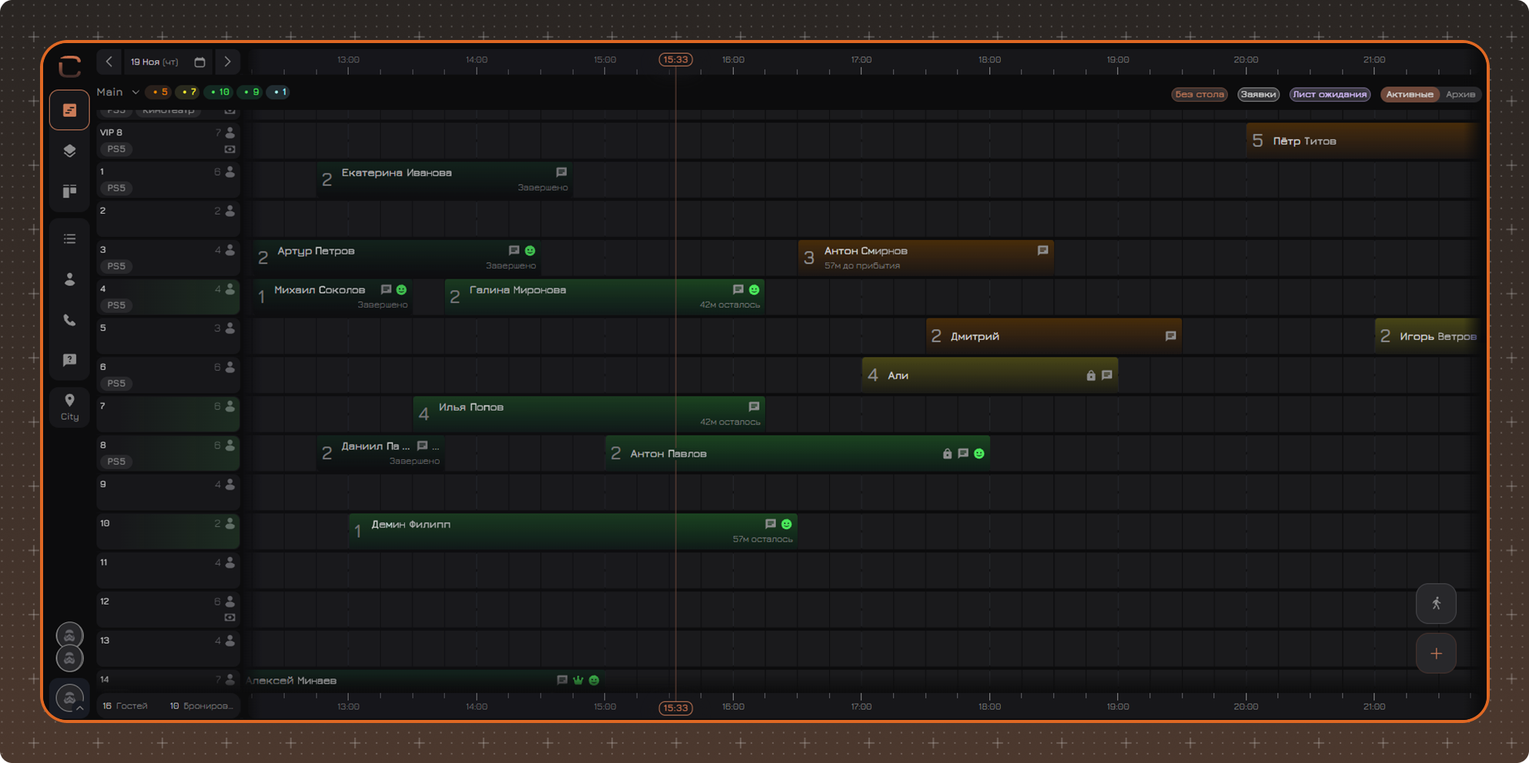
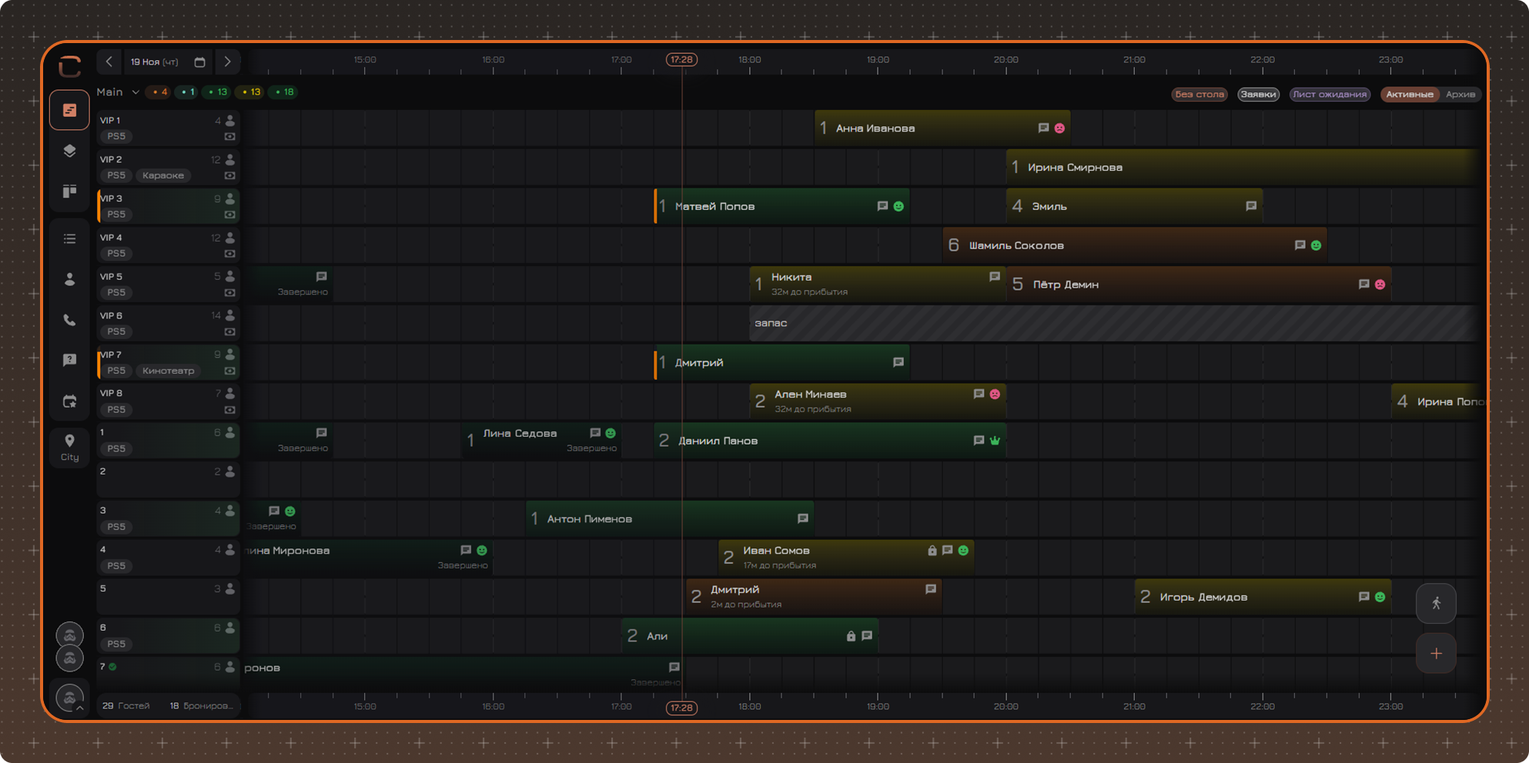
Reservations: «Таймлайн бронирований» - раздел Канбан вместо таблицы, новые скрины, правка текста RU и EN

diff --git a/content/ru/reservations/reservations/timeline-view.md b/content/ru/reservations/reservations/timeline-view.md
@@ -1,9 +1,9 @@
 ---
 title: Таймлайн бронирований
 description: Навигация и функционал Таймлайна
-summary: "Брони на шкале времени, список столов и таблица"
+summary: "Брони на шкале времени, список столов и Канбан"
 order: 1
-updatedAt: 2026-09-24
+updatedAt: 2026-11-19
 ---
 
 **Таймлайн бронирований** - основной рабочий экран модуля бронирования. Все брони выбранного дня разложены по столам на временной шкале, а цвет каждой брони показывает ее статус. Здесь удобно оценивать загрузку зала, искать свободный стол на нужное время и создавать брони прямо на шкале.
@@ -15,65 +15,64 @@ updatedAt: 2026-09-24
 В модуле доступно три режима отображения бронирований. Каждый из них подходит для разных задач: работы с бронями, анализа загрузки и управления посадкой гостей.
 
 1. **Таймлайн**
-2. **План этажа** 
-3. **Таблица**
+2. **План этажа**
+3. **Канбан**
 
-![Вкладки Бронирования](/ru/images/reserve/timeline-view/timeline-view-1.jpg)
+![Режимы модуля бронирования](/ru/images/reserve/timeline-view/timeline-view-1.png)
 
 [[delimiter rows=1]]
 
 ## Таймлайн
 
-**Таймлайн** — это область с временной шкалой, на которой отображаются все бронирования.
+**Таймлайн** - временная шкала, на которой брони отображаются по столам.
 
 ![Таймлайн](/ru/images/reserve/timeline-view/timeline-view-2.jpg)
 
 [[delimiter rows=1]]
 
-**Основные элементы:**
+**Элементы страницы:**
 
 1. Список этажей и столов. Этажи можно сворачивать и разворачивать.
 2. Временная шкала с бронями.
 3. Кнопка создания брони.
 4. Статистика завершенных бронирований за день.
 5. Информация по бронированиям на выбранном этаже. Цвета соответствуют **[статусной модели](https://wiki.cosmosresto.ru/ru/reservations/reservations/reserv-status/)**.
-6. Кнопки **Без стола**, **Заявки** и **Лист ожидания** — открывают соответствующие списки в сайдбаре справа.
-7. Кнопка **Архив** — открывает список отмененных бронирований.
+6. Кнопки **Без стола**, **Заявки** и **Лист ожидания** - открывают соответствующие списки в сайдбаре справа.
+7. Кнопка **Архив** - открывает список отмененных бронирований.
 
-**Без стола, Заявки и Лист ожидания**
+### Без стола, Заявки и Лист ожидания
 
 Счетчик на каждой кнопке показывает количество записей в соответствующем списке.
 
-- **Без стола** — брони, которым еще не назначен стол.
-- **Заявки** — заявки на бронирование, поступившие через виджет сайта. Нажмите на заявку, чтобы посмотреть подробную информацию. Заявку можно отклонить или подтвердить и создать на ее основе бронь. При создании брони можно выбрать стол, оставить бронь без стола или указать статус **Лист ожидания**. Подробнее о работе с заявками читайте в статье **[Заявки на бронирование](https://wiki.cosmosresto.ru/ru/reservations/reservations/requests/)**.
-- **Лист ожидания** — записи, для которых бронь пока не может быть подтверждена, например если нет подходящего стола или недоступно нужное время. Запись не резервирует стол и не блокирует время. Когда появится возможность подтвердить бронь, запись можно превратить в обычную бронь. Подробнее о работе с листом ожидания читайте в статье **[Лист ожидания](https://wiki.cosmosresto.ru/ru/reservations/reservations/waitlist/)**.
-
+- **Без стола** - брони, которым еще не назначен стол.
+- **Заявки** - заявки на бронирование, поступившие через виджет сайта. Нажмите на заявку, чтобы посмотреть подробную информацию. Заявку можно отклонить или подтвердить и создать на ее основе бронь. При создании брони можно выбрать стол, оставить бронь без стола или указать статус **Лист ожидания**. Подробнее о работе с заявками - в статье **[Заявки на бронирование](https://wiki.cosmosresto.ru/ru/reservations/reservations/requests/)**.
+- **Лист ожидания** - записи, для которых бронь пока не может быть подтверждена, например если нет подходящего стола или недоступно нужное время. Запись не резервирует стол и не блокирует время. Когда появится возможность подтвердить бронь, запись можно превратить в обычную бронь. Подробнее о работе с листом ожидания - в статье **[Лист ожидания](https://wiki.cosmosresto.ru/ru/reservations/reservations/waitlist/)**.
 
 ### Создание бронирования на таймлайне
 
-**Создать бронирование можно прямо на таймлайне несколькими способами:**
+Создать бронь прямо на таймлайне можно несколькими способами:
 
-- Одиночное нажатие открывает сайдбар создания бронирования.
-- Нажатие и протяжка вправо или влево позволяют сразу задать продолжительность бронирования.
-- Протяжка вверх или вниз позволяет выбрать несколько столов одновременно (подробнее про **[мультибронирование](https://wiki.cosmosresto.ru/ru/reservations/reservations/mass-reservations/)**).
+- одиночное нажатие открывает сайдбар создания брони.
+- нажатие и протяжка вправо или влево позволяют сразу задать продолжительность брони.
+- протяжка вверх или вниз позволяет выбрать несколько столов одновременно, подробнее - в статье **[Мультибронирование](https://wiki.cosmosresto.ru/ru/reservations/reservations/mass-reservations/)**.
 
-![Таймлайн](/ru/images/reserve/timeline-view/timeline-view-3.gif)
+![Создание брони на таймлайне](/ru/images/reserve/timeline-view/timeline-view-3.gif)
 
 [[delimiter rows=1]]
 
 [[info type=custom color=#E06823]]
-Создать бронирование также можно через `Кнопку создания бронирования` в правом нижнем углу. Подробнее о способах создания бронирования — в статье **[Создание брони](https://wiki.cosmosresto.ru/ru/reservations/reservations/reserv-create/)**.
+Создать бронь также можно кнопкой **+** в правом нижнем углу. Подробнее о способах создания брони - в статье **[Создание брони](https://wiki.cosmosresto.ru/ru/reservations/reservations/reserv-create/)**.
 [[/info]]
 
 ### Список столов
 
-**При выборе стола отображается информация о нем:**
+При выборе стола отображается информация о нем:
 
-1. Схема и максимальная вместимость.
-2. Теги.
-3. Депозиты и исключения.
+- схема и максимальная вместимость.
+- теги.
+- депозиты и исключения.
 
-![Таймлайн](/ru/images/reserve/timeline-view/timeline-view-4.jpg)
+![Информация о столе](/ru/images/reserve/timeline-view/timeline-view-4.jpg)
 
 [[delimiter rows=1]]
 
@@ -81,53 +80,48 @@ updatedAt: 2026-09-24
 В этом же окне можно добавить **блокировку** на стол на выбранный период. Блокировка отображается на таймлайне и плане этажа, но не запрещает создать на этом столе бронирование.
 [[/info]]
 
-**Для блокировки стола необходимо указать:** 
+Для блокировки стола укажите:
 
-1. Один или несколько столов.
-2. Время начала и продолжительность блокировки.
-3. Причину блокировки.
+- один или несколько столов.
+- время начала и продолжительность блокировки.
+- причину блокировки.
 
-![Таймлайн](/ru/images/reserve/timeline-view/timeline-view-5.jpg)
+![Блокировка стола](/ru/images/reserve/timeline-view/timeline-view-5.jpg)
 
 [[delimiter rows=1]]
-
 
 ## План этажа
 
-**План этажа** — это наглядное представление столов заведения, с помощью которого можно оценивать загрузку зала и управлять бронированиями в привязке к конкретным столам.
+**План этажа** - наглядное представление столов заведения, с помощью которого можно оценивать загрузку зала и управлять бронированиями в привязке к конкретным столам.
 
-![Таймлайн](/ru/images/reserve/timeline-view/timeline-view-7.png)
+![План этажа](/ru/images/reserve/timeline-view/timeline-view-7.png)
 
 [[delimiter rows=1]]
 
 [[info type=custom color=#E06823]]
-Про план этажа подробнее в статье **[План этажа](https://wiki.cosmosresto.ru/ru/reservations/reservations/floorplan/)**.
+Подробнее - в статье **[План этажа](https://wiki.cosmosresto.ru/ru/reservations/reservations/floorplan/)**.
 [[/info]]
 
+## Канбан
 
-## Табличное отображение бронирований
+**Канбан** - режим, в котором брони выбранного дня разложены по колонкам статусов. Статус брони меняется перетаскиванием карточки, без открытия сайдбара, а новые заявки можно обработать прямо в колонке **Заявки**.
 
-В этом режиме бронирования отображаются в виде таблицы. Записи можно сортировать и фильтровать. Также в разделе отображается сводка по бронированиям с учетом примененных фильтров.
-
-![Таймлайн](/ru/images/reserve/timeline-view/timeline-view-6.jpg)
+![Канбан](/ru/images/reserve/kanban/kanban-board.png)
 
 [[delimiter rows=1]]
 
-**Элементы страницы:**
-1. Кнопка обновления данных таблицы.
-2. Настройка отображаемых колонок.
-3. Сводка бронирований на основании выбранных фильтров.
-
 [[info type=custom color=#E06823]]
-Данные в таблице не обновляются автоматически. Если данные изменились, кнопка обновления уведомит об этом. Для загрузки актуальной информации нажмите `Обновить`.
+Подробнее - в статье **[Канбан](https://wiki.cosmosresto.ru/ru/reservations/reservations/kanban/)**.
 [[/info]]
 
 [[delimiter rows=3]]
 
 **Читайте дальше:**
 
-— **[План этажа](https://wiki.cosmosresto.ru/ru/reservations/reservations/floorplan/)**
-
-— **[Создание брони](https://wiki.cosmosresto.ru/ru/reservations/reservations/reserv-create/)**
+- **[План этажа](https://wiki.cosmosresto.ru/ru/reservations/reservations/floorplan/)**
+- **[Канбан](https://wiki.cosmosresto.ru/ru/reservations/reservations/kanban/)**
+- **[Создание брони](https://wiki.cosmosresto.ru/ru/reservations/reservations/reserv-create/)**
 
 [[delimiter rows=3]]
+
+---

diff --git a/content/en/reservations/reservations/timeline-view.md b/content/en/reservations/reservations/timeline-view.md
@@ -1,9 +1,9 @@
 ---
 title: Reservation Timeline
 description: Navigation and functionality of the Timeline
-summary: "Reservations on a time scale, table list, and table view"
+summary: "Reservations on a time scale, table list and Kanban"
 order: 1
-updatedAt: 2026-09-24
+updatedAt: 2026-11-19
 ---
 
 **Reservation Timeline** is the main working screen of the reservations module. All reservations for the selected day are laid out by table on a time scale, and the color of each reservation shows its status. This is where it is convenient to check how busy the venue is, find a free table for the right time and create reservations right on the scale.
@@ -15,61 +15,60 @@ updatedAt: 2026-09-24
 The module has three display modes for reservations. Each one is suitable for different tasks: working with reservations, analyzing occupancy and managing guest seating.
 
 1. **Timeline**
-2. **Floor Plan** 
-3. **Table**
+2. **Floor Plan**
+3. **Kanban**
 
-<!-- ![Reservations Tabs](/ru/images/reserve/timeline-view/timeline-view-1.jpg) -->
+![Reservation module modes](/en/images/reserve/timeline-view/timeline-view-1-en.png)
+
+[[delimiter rows=1]]
 
 ## Timeline
 
-**Timeline** is an area with a time scale on which all reservations are displayed.
+**Timeline** is a time scale on which reservations are displayed by table.
 
 ![Timeline](/en/images/reserve/timeline-view/timeline-view-2-en.jpg)
 
 [[delimiter rows=1]]
 
-**Main elements:**
+**Page elements:**
 
 1. List of floors and tables. Floors can be collapsed and expanded.
 2. Time scale with reservations.
 3. Button to create a reservation.
 4. Statistics of completed reservations for the day.
 5. Information on reservations on the selected floor. Colors correspond to the **[status model](https://wiki.cosmosresto.ru/en/reservations/reservations/reserv-status/)**.
-6. **No Table**, **Requests** and **Waitlist** buttons — open the corresponding lists in the sidebar on the right.
-7. **Archive** button — opens the list of canceled reservations.
+6. **No Table**, **Requests** and **Waitlist** buttons - open the corresponding lists in the sidebar on the right.
+7. **Archive** button - opens the list of canceled reservations.
 
-**No Table, Requests and Waitlist**
+### No Table, Requests and Waitlist
 
 The counter on each button shows the number of records in the corresponding list.
 
-- **No Table** — reservations that have not yet been assigned a table.
-- **Requests** — reservation requests received through the website widget. Click a request to view detailed information. A request can be rejected or confirmed and used to create a reservation. When creating a reservation, you can select a table, leave the reservation without a table or set the **Waitlist** status. For more information about working with requests, read the article **[Reservation Requests](https://wiki.cosmosresto.ru/en/reservations/reservations/requests/)**.
-- **Waitlist** — records for which a reservation cannot be confirmed yet, for example if there is no suitable table or the required time is unavailable. A record does not reserve a table and does not block time. When it becomes possible to confirm the reservation, the record can be converted into a regular reservation. For more information about working with the waitlist, read the article **[Waitlist](https://wiki.cosmosresto.ru/en/reservations/reservations/waitlist/)**.
-
+- **No Table** - reservations that have not yet been assigned a table.
+- **Requests** - reservation requests received through the website widget. Click a request to view detailed information. A request can be rejected or confirmed and used to create a reservation. When creating a reservation, you can select a table, leave the reservation without a table or set the **Waitlist** status. For more information about working with requests, see the article **[Reservation Requests](https://wiki.cosmosresto.ru/en/reservations/reservations/requests/)**.
+- **Waitlist** - records for which a reservation cannot be confirmed yet, for example if there is no suitable table or the required time is unavailable. A record does not reserve a table and does not block time. When it becomes possible to confirm the reservation, the record can be converted into a regular reservation. For more information about working with the waitlist, see the article **[Waitlist](https://wiki.cosmosresto.ru/en/reservations/reservations/waitlist/)**.
 
 ### Creating a Reservation on Timeline
 
-**You can create a reservation directly on the timeline in several ways:**
+You can create a reservation directly on the timeline in several ways:
 
-- Single click opens a sidebar to create a reservation.
-- Click and drag right or left allow you to immediately set the reservation duration.
-- Drag up or down allows you to select multiple tables at once (more about **[multi-reservation](https://wiki.cosmosresto.ru/en/reservations/reservations/mass-reservations/)**).
+- a single click opens the sidebar for creating a reservation.
+- click and drag right or left to set the reservation duration right away.
+- drag up or down to select several tables at once, see the article **[Multi-Table Reservation](https://wiki.cosmosresto.ru/en/reservations/reservations/mass-reservations/)**.
 
 <!-- ![Timeline](/ru/images/reserve/timeline-view/timeline-view-3.gif) -->
 
-[[delimiter rows=1]]
-
 [[info type=custom color=#E06823]]
-You can also create a reservation via the `Reservation creation button` in the lower right corner. More about ways to create a reservation — in the article **[Creating a Reservation](https://wiki.cosmosresto.ru/en/reservations/reservations/reserv-create/)**.
+You can also create a reservation with the **+** button in the lower right corner. More about ways to create a reservation - in the article **[Creating a Reservation](https://wiki.cosmosresto.ru/en/reservations/reservations/reserv-create/)**.
 [[/info]]
 
 ### Table List
 
-**When you select a table, information about it is displayed:**
+When you select a table, information about it is displayed:
 
-1. Layout and maximum capacity.
-2. Tags.
-3. Deposits and exclusions.
+- layout and maximum capacity.
+- tags.
+- deposits and exclusions.
 
 <!-- ![Timeline](/ru/images/reserve/timeline-view/timeline-view-4.jpg) -->
 
@@ -77,51 +76,44 @@ You can also create a reservation via the `Reservation creation button` in the l
 In this same window you can add a **block** on a table for the selected period. The block is displayed on the timeline and floor plan, but does not prevent creating a reservation on this table.
 [[/info]]
 
-**To block a table you need to specify:** 
+To block a table, specify:
 
-1. One or more tables.
-2. Block start time and duration.
-3. Reason for blocking.
+- one or more tables.
+- block start time and duration.
+- reason for blocking.
 
 <!-- ![Timeline](/ru/images/reserve/timeline-view/timeline-view-5.jpg) -->
 
-
 ## Floor Plan
 
-**Floor plan** is a visual representation of the establishment's tables, which allows you to assess the hall occupancy and manage reservations tied to specific tables.
+**Floor Plan** is a visual representation of the venue's tables that helps assess how busy the venue is and manage reservations tied to specific tables.
 
 <!-- ![Timeline](/ru/images/reserve/timeline-view/timeline-view-7.png) -->
 
-[[delimiter rows=1]]
-
 [[info type=custom color=#E06823]]
-More about the floor plan in the article **[Floor Plan](https://wiki.cosmosresto.ru/en/reservations/reservations/floorplan/)**.
+More details - in the article **[Floor Plan](https://wiki.cosmosresto.ru/en/reservations/reservations/floorplan/)**.
 [[/info]]
 
+## Kanban
 
-## Table Display of Reservations
+**Kanban** is a mode in which the reservations of the selected day are arranged in status columns. A reservation status is changed by dragging its card, without opening the sidebar, and new requests can be processed right in the **Requests** column.
 
-In this mode, reservations are displayed as a table. Records can be sorted and filtered. Also, a summary of reservations is displayed in the section taking into account the applied filters.
-
-<!-- ![Timeline](/ru/images/reserve/timeline-view/timeline-view-6.jpg) -->
+![Kanban](/en/images/reserve/kanban/kanban-board-en.png)
 
 [[delimiter rows=1]]
 
-**Page elements:**
-1. Button to refresh table data.
-2. Setting of displayed columns.
-3. Summary of reservations based on selected filters.
-
 [[info type=custom color=#E06823]]
-Data in the table does not update automatically. If the data has changed, the update button will notify you. To load current information, click `Refresh`.
+More details - in the article **[Kanban](https://wiki.cosmosresto.ru/en/reservations/reservations/kanban/)**.
 [[/info]]
 
 [[delimiter rows=3]]
 
 **Read further:**
 
-— **[Floor Plan](https://wiki.cosmosresto.ru/en/reservations/reservations/floorplan/)**
-
-— **[Creating a Reservation](https://wiki.cosmosresto.ru/en/reservations/reservations/reserv-create/)**
+- **[Floor Plan](https://wiki.cosmosresto.ru/en/reservations/reservations/floorplan/)**
+- **[Kanban](https://wiki.cosmosresto.ru/en/reservations/reservations/kanban/)**
+- **[Creating a Reservation](https://wiki.cosmosresto.ru/en/reservations/reservations/reserv-create/)**
 
 [[delimiter rows=3]]
+
+---
